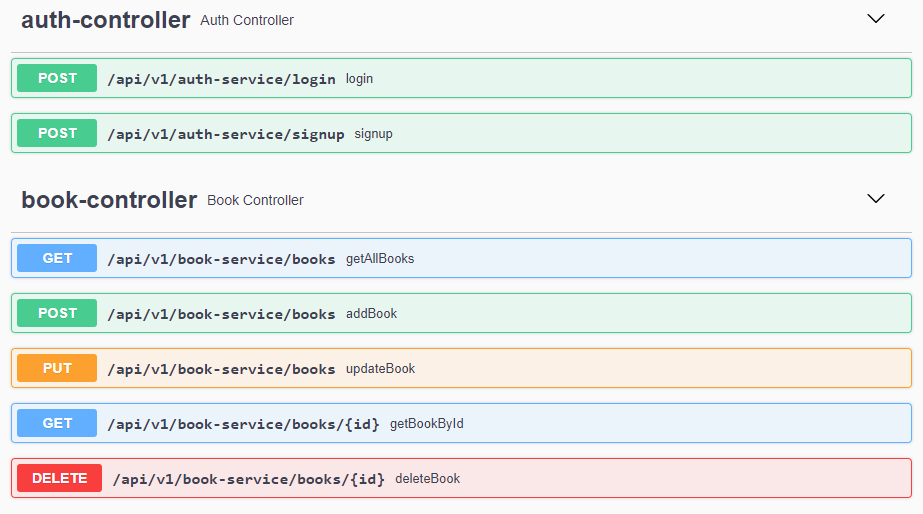
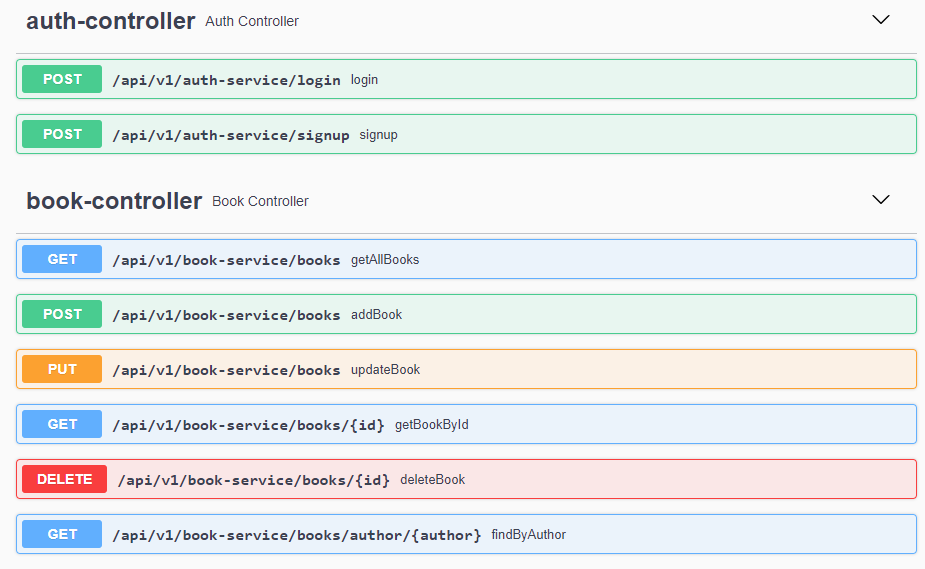
Final docs changes. Added findby endpoint.

diff --git a/src/main/java/com/qa/bookshop/repository/BookRepository.java b/src/main/java/com/qa/bookshop/repository/BookRepository.java
@@ -2,13 +2,18 @@ package com.qa.bookshop.repository;
 
 import com.qa.bookshop.entity.Book;
 import org.springframework.data.jpa.repository.JpaRepository;
+import org.springframework.data.jpa.repository.Query;
 import org.springframework.stereotype.Repository;
 
 import javax.transaction.Transactional;
+import java.util.List;
 
 @Repository
 @Transactional
 public interface BookRepository extends JpaRepository<Book, Integer> {
-    Book findByAuthor(String name);
+
+    @Query(value = "select * from t_book where author like CONCAT('%', :author, '%')", nativeQuery = true)
+    List<Book> findByAuthor(String author);
+
     Book findByTitle(String title);
 }

diff --git a/src/main/java/com/qa/bookshop/controller/BookController.java b/src/main/java/com/qa/bookshop/controller/BookController.java
@@ -92,4 +92,16 @@ public class BookController {
         }
         return responseEntity;
     }
+
+    @GetMapping("books/author/{author}")
+    public ResponseEntity<?> findByAuthor(@PathVariable("author") String author){
+        try {
+            List<Book> bookListByAuthor = this.bookService.findByAuthor(author);
+            responseEntity = new ResponseEntity<>(bookListByAuthor,HttpStatus.OK);
+        } catch(Exception e) {
+            responseEntity = new ResponseEntity<>("An internal error occurred. Please try again.",HttpStatus.INTERNAL_SERVER_ERROR);
+        }
+
+        return responseEntity;
+    }
 }

diff --git a/src/test/java/com/qa/bookshop/service/BookServiceTest.java b/src/test/java/com/qa/bookshop/service/BookServiceTest.java
@@ -77,7 +77,6 @@ public class BookServiceTest {
     public void given_Existing_Book_To_Save_Method_Should_Throw_Exception() throws BookAlreadyExistsException {
         when(bookRepository.findByTitle(any())).thenReturn(book1);
 
-        //empService.saveEmployee(emp1);
         assertThrows(BookAlreadyExistsException.class,()-> bookService.addBook(book1));
     }
 }

diff --git a/src/main/java/com/qa/bookshop/service/BookService.java b/src/main/java/com/qa/bookshop/service/BookService.java
@@ -12,4 +12,5 @@ public interface BookService {
     public Book addBook(Book book) throws BookAlreadyExistsException;
     public Book updateBook(Book book) throws BookNotFoundException;
     public boolean deleteBook(int id) throws BookNotFoundException;
+    public List<Book> findByAuthor(String author) throws BookNotFoundException;
 }

diff --git a/src/main/java/com/qa/bookshop/service/BookServiceImpl.java b/src/main/java/com/qa/bookshop/service/BookServiceImpl.java
@@ -70,4 +70,9 @@ public class BookServiceImpl implements BookService {
         this.bookRepository.delete(findByIdOptional.get());
         return true;
     }
+
+    @Override
+    public List<Book> findByAuthor(String author) throws BookNotFoundException {
+        return this.bookRepository.findByAuthor(author);
+    }
 }
